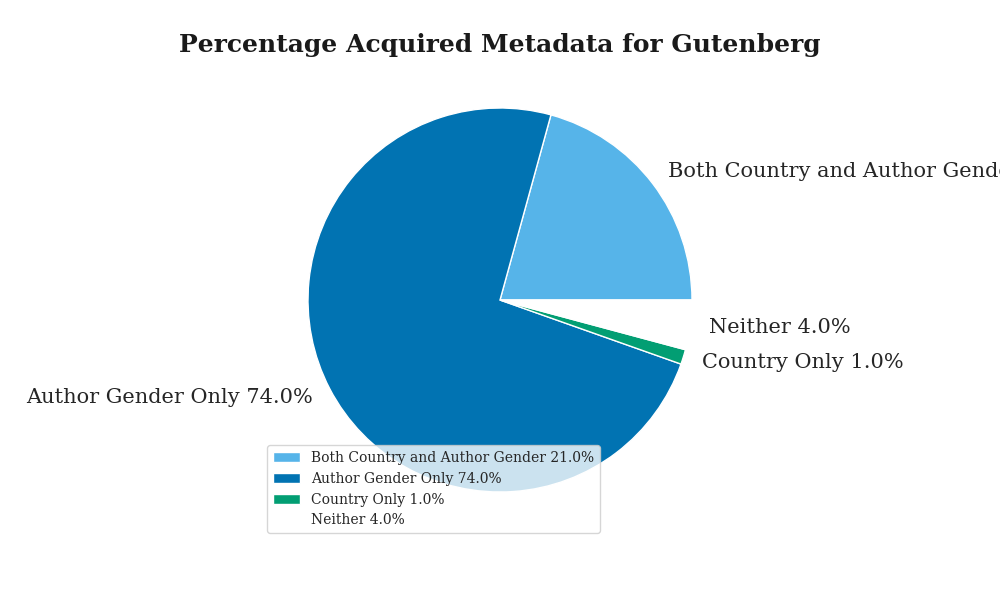
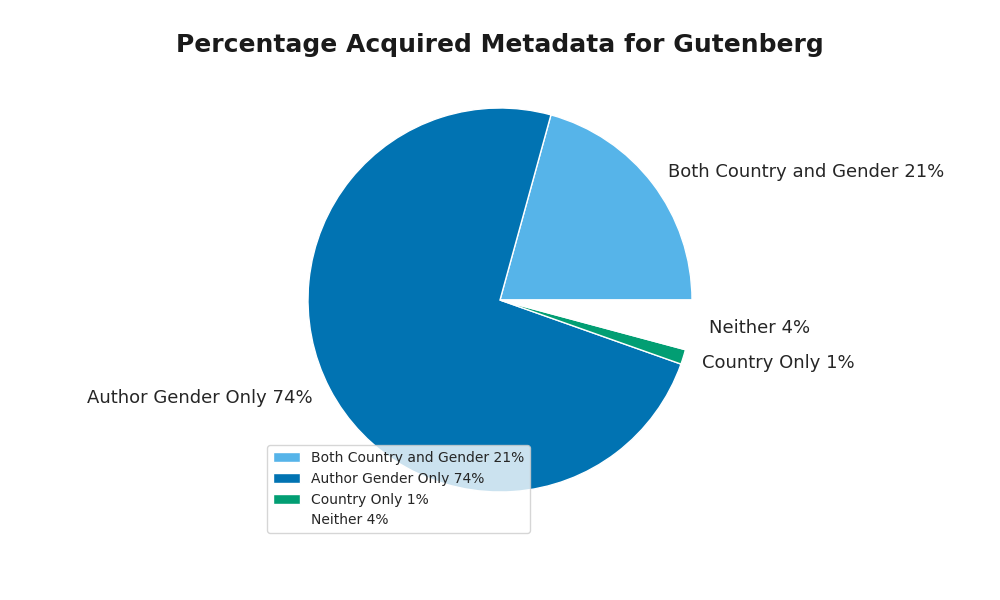
Make metadata pie look better

diff --git a/gender_novels/analysis/visualizations/datagraphs_functions.py b/gender_novels/analysis/visualizations/datagraphs_functions.py
@@ -43,15 +43,18 @@ def plt_pubcountries(pub_country,corpus_name):
     for country in pub_country:
         country_counter[country]=country_counter.setdefault(country,0)+1
         totalbooks+=1
-    country_counter2={}
+    country_counter2={'Other':0}
     for country in country_counter:
         if country=='':
             pass
         elif country_counter[country]>(.001*totalbooks): #must be higher than .1% of the total books
             #  to have its own country name otherwise it is classified under others
             country_counter2[country]=country_counter[country]
-    x=[country for country in country_counter2]
-    y=[country_counter2[country] for country in country_counter2]
+        else:
+            country_counter2['Other'] += country_counter[country]
+    country_counter2 = sorted(country_counter2.items(), key=lambda kv: -kv[1])
+    x=[country[0] for country in country_counter2]
+    y=[country[1] for country in country_counter2]
     for label in ax1.xaxis.get_ticklabels():
         label.set_rotation(15)
     plt.bar(x,y,color='c')
@@ -101,12 +104,12 @@ def plt_metadata_pie(corpus, corpus_name):
     :param corpus: Corpus
     :param corpus_name: str
     """
-    counter = Counter({'Both Country and Author Gender': 0, 'Author Gender Only': 0,
+    counter = Counter({'Both Country and Gender': 0, 'Author Gender Only': 0,
                        'Country Only': 0, 'Neither': 0})
     num_novels = len(corpus)
     for novel in corpus.novels:
         if novel.author_gender != 'unknown' and novel.country_publication:
-            counter['Both Country and Author Gender'] += 1
+            counter['Both Country and Gender'] += 1
         elif novel.author_gender != 'unknown':
             counter['Author Gender Only'] += 1
         elif novel.country_publication:
@@ -115,11 +118,11 @@ def plt_metadata_pie(corpus, corpus_name):
             counter['Neither'] += 1
     labels = []
     for label, number in counter.items():
-        labels.append(label + " " + str(round(number/num_novels,2)*100) + r"%")
+        labels.append(label + " " + str(int(round(number/num_novels,2)*100)) + r"%")
     sns.set_color_codes('colorblind')
     colors = ['c', 'b', 'g', 'w']
     plt.figure(figsize=(10, 6))
-    plt.pie(counter.values(), colors=colors, labels=labels, textprops={'fontsize': 15})
+    plt.pie(counter.values(), colors=colors, labels=labels, textprops={'fontsize': 13})
     plt.title('Percentage Acquired Metadata for ' + corpus_name.title(), size=18, color='k',
               weight='bold')
     plt.legend()
